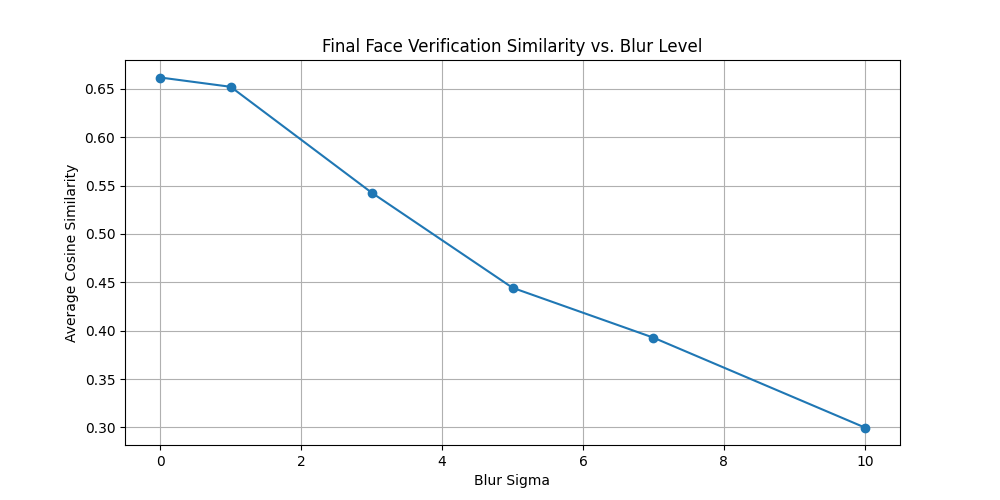
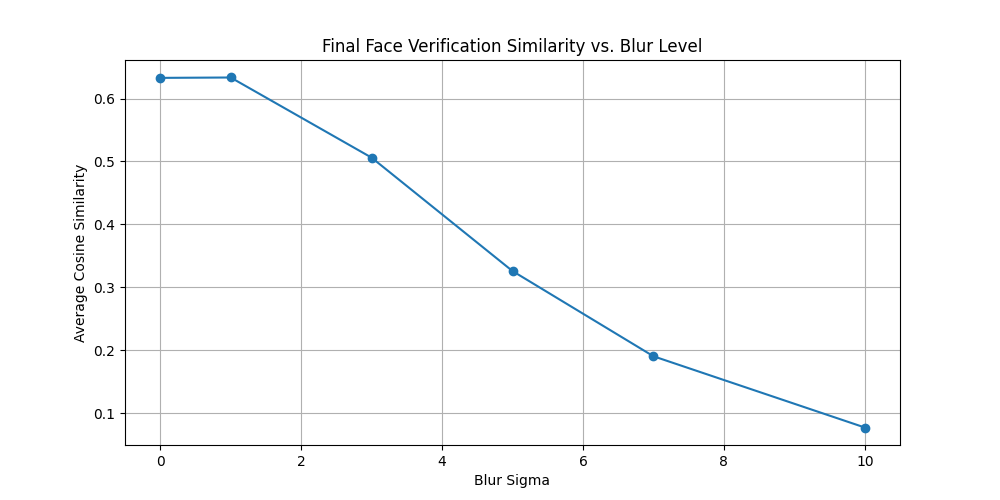
evaluate baseline and custom models

diff --git a/evaluate_model.py b/evaluate_model.py
@@ -10,10 +10,15 @@ from tqdm import tqdm
 # InsightFace imports
 import insightface
 from insightface.app import FaceAnalysis
-from utils.blurring_utils import blur_face
 
 # Import the dataloader
-from lfw_double_loader import LFWDatasetDouble, get_lfw_dataloaders
+from lfw_double_loader import LFWDatasetDouble
+from lfw_double_loader import get_lfw_dataloaders as get_double
+from lfw_triple_loaders import get_transforms
+from utils.blurring_utils import blur_face
+
+
+device = torch.device("cuda") if torch.cuda.is_available() else torch.device("cpu")
 
 """
 Example Usage:
@@ -22,32 +27,33 @@ python arcface_finfin.py --root_dir data/lfw --num_pairs 100 --report_interval 2
 
 class FaceVerifier:
     def __init__(self, det_size=(640, 640)):
-        self.app = FaceAnalysis(providers=['CUDAExecutionProvider', 'CPUExecutionProvider'])
-        self.app.prepare(ctx_id=0, det_size=det_size)
-        print("InsightFace initialized successfully.")
+        # self.app = FaceAnalysis(providers=['CUDAExecutionProvider', 'CPUExecutionProvider'])
+        # self.app.prepare(ctx_id=0, det_size=det_size)
+        # print("InsightFace initialized successfully.")
     
-    def get_face_embedding(self, img):
+        self.sharpnet = torch.load("./sharpnet-29-9-19.pt", weights_only=False).to(device)
+        self.blurnet = torch.load("./blurnet-29-9-19.pt", weights_only=False).to(device)
+
+        self.sharpnet.eval()
+        self.blurnet.eval()
+
+        self.train_transform, self.test_transform = get_transforms(img_size=224) 
+
+        print("Loaded custom models")
+    
+    def get_face_embedding(self, img, model_type = 'sharp'):
         """Extract face embedding from an image"""
-        # Convert to correct format(opencv style)
-        #print("wij zijn embedded facje")
-        if isinstance(img, Image.Image):
-            img = np.array(img)
-            img = cv2.cvtColor(img, cv2.COLOR_RGB2BGR)
         
-        # Detect faces (it uses retinaface for face detection)
-        faces = self.app.get(img)
-        
-        if len(faces) == 0:
-            return None
-        
-        # Get the face with the highest detection score
-        face = max(faces, key=lambda x: x.det_score)
-        
-        # Extract embedding
-        embedding = face.embedding
-        bbox = face.bbox.astype(int)
-        
-        return embedding, bbox, face.det_score
+        with torch.no_grad():
+            img = self.test_transform(img).to(device).unsqueeze(0)
+
+            if model_type=='sharp':
+                embedding = self.sharpnet(img)
+            else:
+                embedding = self.blurnet(img)
+
+        embedding.requires_grad = False
+        return embedding
     
     def blur_face_region(self, img, bbox, sigma=3):
         """Blur a face region in an image"""
@@ -59,7 +65,6 @@ class FaceVerifier:
         
         # Extract the face region
         face_region = result[y1:y2, x1:x2]
-        print(face_region)
         
         # Apply Gaussian blur
         blurred_face = cv2.GaussianBlur(face_region, (0, 0), sigma)
@@ -71,40 +76,40 @@ class FaceVerifier:
 
     def compare_faces(self, img1, img2, blur_sigma=None):
         """Compare two face images and return similarity score"""
-        # Convert PIL images to numpy arrays if needed
+        # # Convert PIL images to numpy arrays if needed
+        # if isinstance(img1, Image.Image):
+        #     img1 = np.array(img1)
+        #     img1 = cv2.cvtColor(img1, cv2.COLOR_RGB2BGR)
+        # if isinstance(img2, Image.Image):
+        #     img2 = np.array(img2)
+        #     img2 = cv2.cvtColor(img2, cv2.COLOR_RGB2BGR)
         
-        
-        # Apply blur if specified
-        if blur_sigma is not None and blur_sigma > 0:
-            # Detect face first
-            # faces1 = self.app.get(img1)
-            # faces2 = self.app.get(img2)
+        # # Apply blur if specified
+        # if blur_sigma is not None and blur_sigma > 0:
+        #     # Detect face first
+        #     faces1 = self.app.get(img1)
+        #     faces2 = self.app.get(img2)
             
-            # if len(faces1) > 0:
-            #     face1 = max(faces1, key=lambda x: x.det_score)
-            #     img1 = self.blur_face_region(img1, face1.bbox, blur_sigma)
-            img1 = blur_face(img1, blur_sigma)
-            # if len(faces2) > 0:
-            #     face2 = max(faces2, key=lambda x: x.det_score)
-            #     img2 = self.blur_face_region(img2, face2.bbox, blur_sigma)
+        #     if len(faces1) > 0:
+        #         face1 = max(faces1, key=lambda x: x.det_score)
+        #         img1 = self.blur_face_region(img1, face1.bbox, blur_sigma)
+        #     if len(faces2) > 0:
+        #         face2 = max(faces2, key=lambda x: x.det_score)
+        #         img2 = self.blur_face_region(img2, face2.bbox, blur_sigma)
         
-        if isinstance(img1, Image.Image):
-            img1 = np.array(img1)
-            img1 = cv2.cvtColor(img1, cv2.COLOR_RGB2BGR)
-        if isinstance(img2, Image.Image):
-            img2 = np.array(img2)
-            img2 = cv2.cvtColor(img2, cv2.COLOR_RGB2BGR)
+        # only img1 is blurred bro please bro
+        if blur_sigma is not None and blur_sigma>0:
+            img1 = blur_face(img1, blur_sigma)
 
         # Get embeddings
         result1 = self.get_face_embedding(img1)
-        # print("img2")
         result2 = self.get_face_embedding(img2)
         
         if result1 is None or result2 is None:
             return None
         
-        embedding1, _, _ = result1
-        embedding2, _, _ = result2
+        embedding1 = result1
+        embedding2 = result2
         
         # Calculate similarity
         similarity = self.cosine_similarity(embedding1, embedding2)
@@ -112,7 +117,7 @@ class FaceVerifier:
         return similarity
 
     def evaluate_blur_effects(self, dataset, num_pairs=100, blur_levels=[0, 1, 3, 5, 7, 10], 
-                            report_interval=10, save_path="arcface_eval_results"):
+                            report_interval=10, save_path="blur_evaluation_results"):
         """
         Evaluate blur effects on multiple image pairs from the dataset
         
@@ -203,8 +208,13 @@ class FaceVerifier:
     
     @staticmethod
     def cosine_similarity(a, b):
+        a = a.squeeze(0)
+        b = b.squeeze(0)
         """Calculate cosine similarity between two vectors"""
-        return np.dot(a, b) / (np.linalg.norm(a) * np.linalg.norm(b))
+        # return np.dot(a, b) / (np.linalg.norm(a) * np.linalg.norm(b))
+        result = torch.dot(a, b) / (torch.linalg.norm(a) * torch.linalg.norm(b))
+        return result.cpu().numpy()
+
 
 def parse_args():
     parser = argparse.ArgumentParser(description='Evaluate blur effects on face verification')
@@ -213,7 +223,7 @@ def parse_args():
     parser.add_argument('--report_interval', type=int, default=10, help='Interval at which to save intermediate results')
     parser.add_argument('--blur_levels', type=int, nargs='+', default=[0, 1, 3, 5, 7, 10], help='Blur levels to evaluate')
     parser.add_argument('--det_size', type=int, default=640, help='Detection size for InsightFace')
-    parser.add_argument('--save_path', type=str, default="arcface_eval_results", help='Directory to save results')
+    parser.add_argument('--save_path', type=str, default="blur_evaluation_results", help='Directory to save results')
     parser.add_argument('--dataset', type=str, default='lfw', choices=['lfw', 'celeba'], help='Which dataset to use: lfw or celeba')
     
     return parser.parse_args()

diff --git a/lfw_triple_loaders.py b/lfw_triple_loaders.py
@@ -134,6 +134,25 @@ class LFWDatasetTriple(Dataset):
         """Return the name of the person for a given label"""
         return self.class_names.get(label, "Unknown")
 
+def get_transforms(img_size):
+
+    # Define transformations
+    train_transform = transforms.Compose([
+        transforms.Resize((img_size, img_size)),
+        transforms.RandomHorizontalFlip(),
+        transforms.RandomRotation(10),
+        transforms.ColorJitter(brightness=0.1, contrast=0.1, saturation=0.1),
+        transforms.ToTensor(),
+        transforms.Normalize(mean=[0.485, 0.456, 0.406], std=[0.229, 0.224, 0.225])
+    ])
+
+    test_transform = transforms.Compose([
+        transforms.Resize((img_size, img_size)),
+        transforms.ToTensor(),
+        transforms.Normalize(mean=[0.485, 0.456, 0.406], std=[0.229, 0.224, 0.225])
+    ])
+
+    return train_transform, test_transform
 
 def get_lfw_dataloaders(root_dir, batch_size=32, img_size=224, seed=42,
                         anchor_blur = False, blur_sigma=None):
@@ -151,22 +170,8 @@ def get_lfw_dataloaders(root_dir, batch_size=32, img_size=224, seed=42,
     Returns:
         train_loader, test_loader, num_classes
     """
-    # Define transformations
-    train_transform = transforms.Compose([
-        transforms.Resize((img_size, img_size)),
-        transforms.RandomHorizontalFlip(),
-        transforms.RandomRotation(10),
-        transforms.ColorJitter(brightness=0.1, contrast=0.1, saturation=0.1),
-        transforms.ToTensor(),
-        transforms.Normalize(mean=[0.485, 0.456, 0.406], std=[0.229, 0.224, 0.225])
-    ])
-
-    test_transform = transforms.Compose([
-        transforms.Resize((img_size, img_size)),
-        transforms.ToTensor(),
-        transforms.Normalize(mean=[0.485, 0.456, 0.406], std=[0.229, 0.224, 0.225])
-    ])
-
+    # get transform
+    train_transform, test_transform = get_transforms(img_size=img_size)
     # Create datasets
     train_dataset = LFWDatasetTriple(root_dir=root_dir, transform=train_transform, train=True, seed=seed,
                                     blur_sigma=blur_sigma)

diff --git a/lfw_double_loader.py b/lfw_double_loader.py
@@ -77,6 +77,8 @@ class LFWDatasetDouble(Dataset):
             self.indices = indices[:split_idx]
         else:
             self.indices = indices[split_idx:]
+        
+        print(len(self.indices))
 
         # Store number of classes
         self.num_classes = len(label_map)
@@ -102,6 +104,7 @@ class LFWDatasetDouble(Dataset):
         name = self.names[real_idx]
 
         img_1_path = self.image_paths[real_idx]
+        # print(img_1_path)
 
         if self.same_person:
             img_2_path = get_same_person(img_1_path)
@@ -126,7 +129,7 @@ class LFWDatasetDouble(Dataset):
             image_1 = self.transform(image_1)
             image_2 = self.transform(image_2)
 
-        print("BY SOME MIRACLE FINALIZED GETTING THE PROMISED SHIT")
+        # print("BY SOME MIRACLE FINALIZED GETTING THE PROMISED SHIT")
         return image_1, image_2, name1, name2
 
     def get_class_name(self, label):

diff --git a/train.py b/train.py
@@ -12,6 +12,7 @@ import sys
 
 def eprint(*args, **kwargs):
     print(*args, file=sys.stderr, **kwargs)
+    print(*args, **kwargs)
 
 device = torch.device("cuda") if torch.cuda.is_available() else torch.device("cpu")
 
@@ -79,7 +80,7 @@ if __name__ == "__main__":
 
             lossval = loss.item()
             losses.append(lossval)
-            print(lossval, end=", ", flush=True)
+            eprint(lossval, end=", ", flush=True)
 
             optimizer.step()
 
